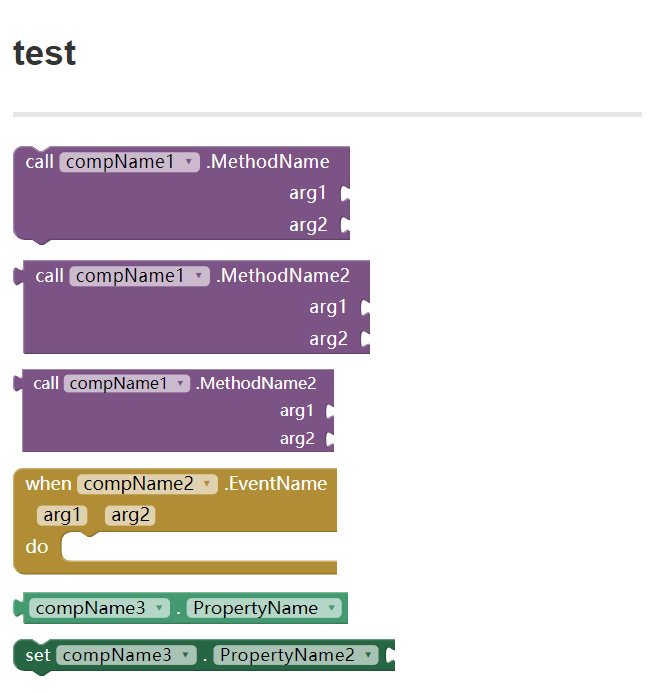
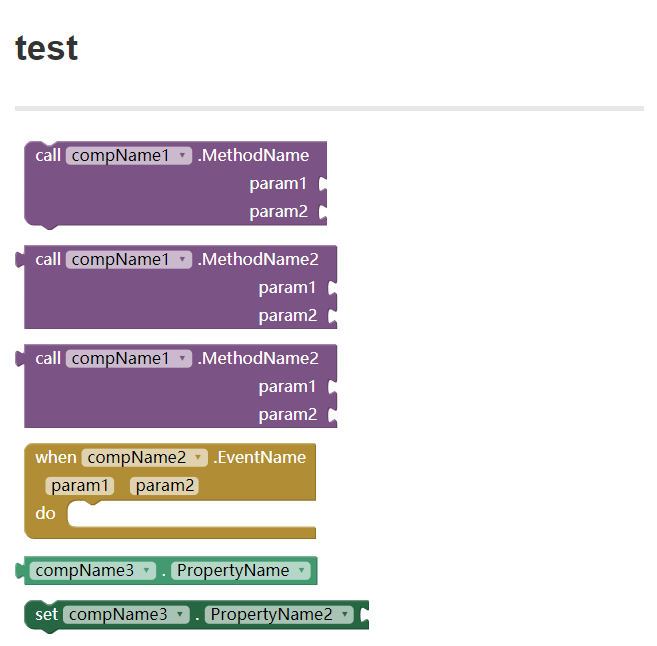
0.3.3: adjust methods' alignment

Changed region(s): [[0.0, 0.1858, 0.6098, 0.9907], [0.0, 0.0619, 0.122, 0.0929]]

diff --git a/assets/plugin.js b/assets/plugin.js
@@ -57,7 +57,7 @@ require(['gitbook', 'jQuery'], function(gitbook, $) {
         }
       };
       
-      newBlockAndWorkspace(blockId, scale).moveBy(output?8:0, 0);
+      newBlockAndWorkspace(blockId, scale);
     });
 
     // EVENT
@@ -125,7 +125,7 @@ require(['gitbook', 'jQuery'], function(gitbook, $) {
         }
       };
       
-      newBlockAndWorkspace(blockId, scale).moveBy((getter?8:0), 0);
+      newBlockAndWorkspace(blockId, scale);
     });
   });
 });
@@ -160,12 +160,11 @@ function newBlockAndWorkspace(id, scale) {
 
   var block = workspace.newBlock('dynamicCreated_'+id);
   block.initSvg();
+  block.moveBy(8, 0);
   block.render();
 
   var metrics = workspace.getMetrics();
-  $("#"+id).height(metrics.contentHeight).width(metrics.contentWidth);
+  $("#"+id).height(metrics.contentHeight).width(metrics.contentWidth + 8);
   Blockly.svgResize(workspace);
   workspace.render();
-
-  return block;
 }
